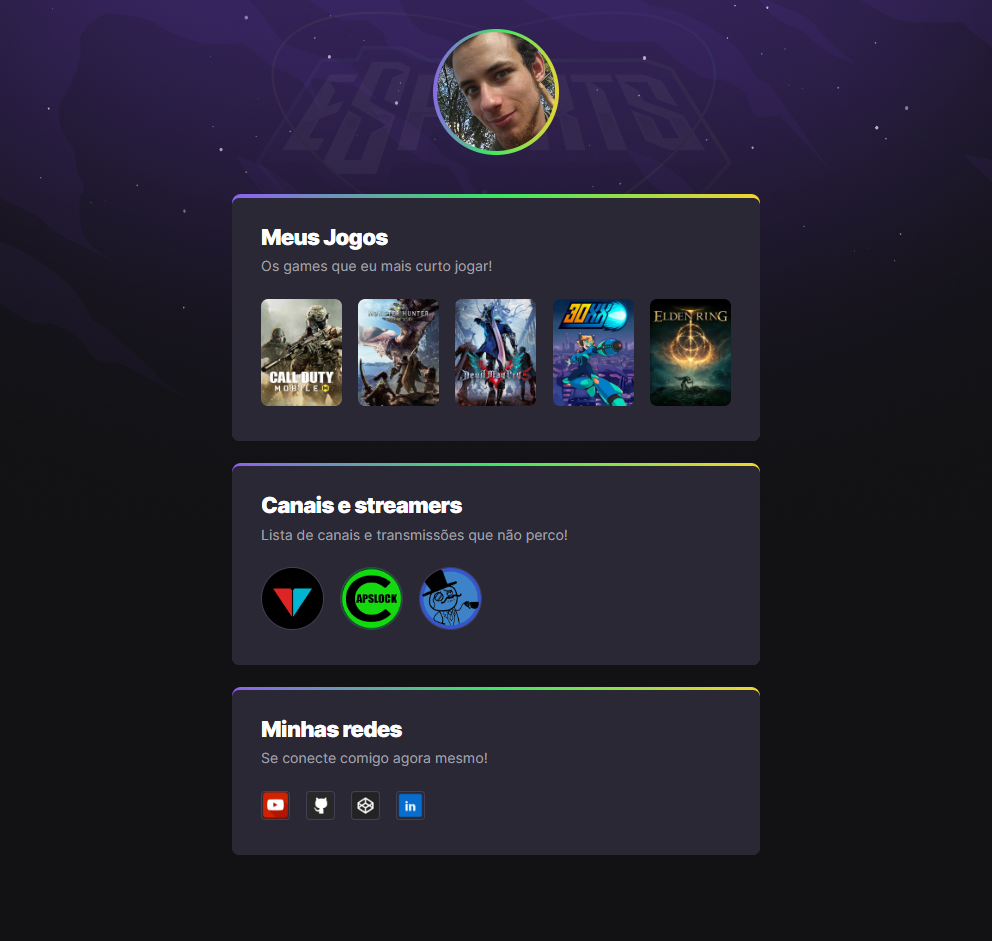
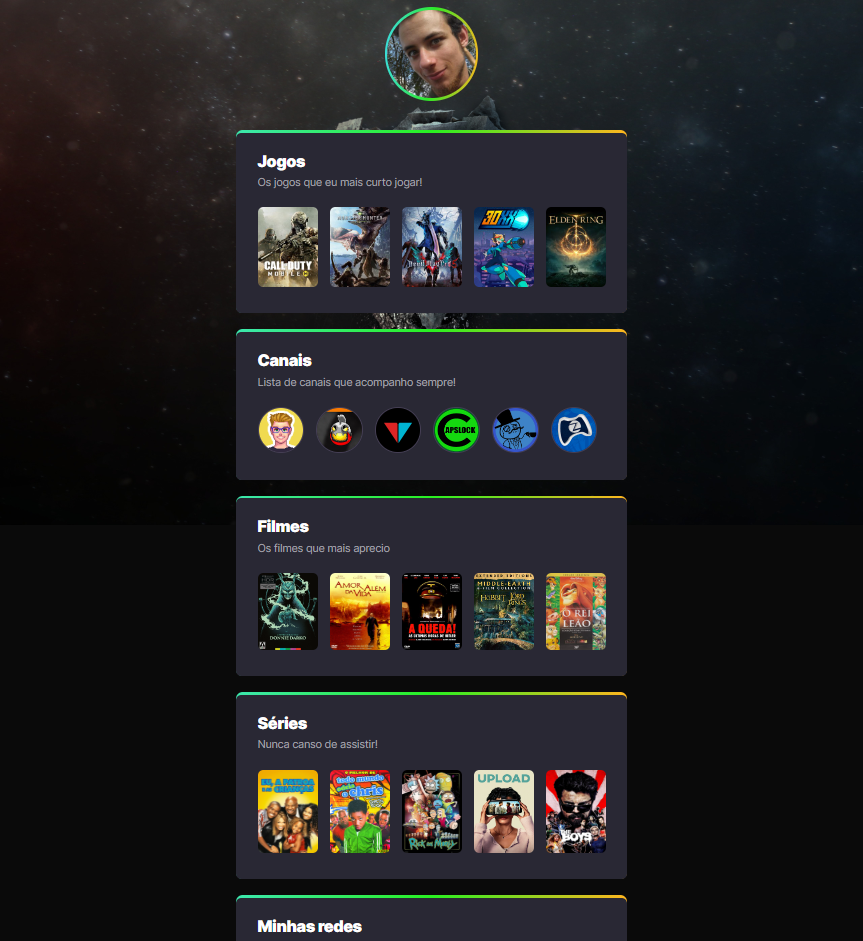
layout update add categories: Filmes e Séries

diff --git a/index.html b/index.html
@@ -26,11 +26,11 @@
         </header>
 
         <main>
-            <!-- Meus Jogos -->
+            <!-- Jogos -->
             <section>
                 <div>
-                    <h2>Meus Jogos</h2>
-                    <p>Os games que eu mais curto jogar!</p>
+                    <h2>Jogos</h2>
+                    <p>Os jogos que eu mais curto jogar!</p>
 
                     <ul class="games-list">
                         <li>
@@ -79,17 +79,33 @@
 
             </section>
 
-            <!-- Canais e streamers -->
+            <!-- Canais -->
             <section>
                 <div>
-                    <h2>Canais e streamers</h2>
-                    <p>Lista de canais e transmissões que não perco!</p>
+                    <h2>Canais</h2>
+                    <p>Lista de canais que acompanho sempre!</p>
 
                     <ul class="channel-list">
                         <li>
                             <a target="_blank"
+                               href="https://www.youtube.com/channel/UCU5JicSrEM5A63jkJ2QvGYw">
+                                <img src="https://yt3.ggpht.com/ytc/AMLnZu9fwc9E-G17B2vMnbYzZBp_NYs4AmCE802y8x08=s176-c-k-c0x00ffffff-no-rj-mo" alt="Imagem do Canal Filipe Deschamps">
+                            </a>
+
+                        </li>
+
+                        <li>
+                            <a target="_blank"
+                               href="https://www.youtube.com/user/PapaHardware">
+                                <img src="https://yt3.ggpht.com/ytc/AMLnZu_G1uq2q8l_Zvg7XibQ2IZ7AfxhWUT7li4qSeC9pQ=s176-c-k-c0x00ffffff-no-rj-mo" alt="Imagem do Canal Papa Hardware">
+                            </a>
+
+                        </li>
+
+                        <li>
+                            <a target="_blank"
                                href="https://www.youtube.com/user/VivaLaDirtLeague">
-                                <img src="https://yt3.ggpht.com/ytc/AMLnZu9JHmjqNg4pWPapIdxbYs_gSKyNe8ig5-3_yxuKog=s176-c-k-c0x00ffffff-no-rj-mo" alt="Imagem de Viva La Dirt League">
+                                <img src="https://yt3.ggpht.com/ytc/AMLnZu9JHmjqNg4pWPapIdxbYs_gSKyNe8ig5-3_yxuKog=s176-c-k-c0x00ffffff-no-rj-mo" alt="Imagem do Canal Viva La Dirt League">
                             </a>
 
                         </li>
@@ -97,7 +113,7 @@
                         <li>
                             <a target="_blank"
                                href="https://www.youtube.com/user/OficialCAPSLOCK">
-                                <img src="https://yt3.ggpht.com/ytc/AMLnZu_rNnQ8cif02501HPf8qwOOyXFQUCHTAUEh5XQaCw=s176-c-k-c0x00ffffff-no-rj-mo" alt="Imagem de Canal Capslock">
+                                <img src="https://yt3.ggpht.com/ytc/AMLnZu_rNnQ8cif02501HPf8qwOOyXFQUCHTAUEh5XQaCw=s176-c-k-c0x00ffffff-no-rj-mo" alt="Imagem do Canal Capslock">
                             </a>
 
                         </li>
@@ -105,7 +121,121 @@
                         <li>
                             <a target="_blank"
                                href="https://www.youtube.com/channel/UCRHXUZ0BxbkU2MYZgsuFgkQ">
-                                <img src="https://yt3.ggpht.com/ytc/AMLnZu8eaOmW_kaCowuC5z41SGt5oi7sZgyntvtVTCe8oA=s176-c-k-c0x00ffffff-no-rj-mo" alt="Imagem de The Spiffing Brit">
+                                <img src="https://yt3.ggpht.com/ytc/AMLnZu8eaOmW_kaCowuC5z41SGt5oi7sZgyntvtVTCe8oA=s176-c-k-c0x00ffffff-no-rj-mo" alt="Imagem do Canal The Spiffing Brit">
+                            </a>
+
+                        </li>
+
+                        <li>
+                            <a target="_blank"
+                               href="https://www.youtube.com/user/Zangado">
+                                <img src="https://yt3.ggpht.com/ib8SSymMeA54R7bJ8C4IULA_R_TE6dRT2HTy2pgJTgYj71x-pZ-NVDye2LVuaADvir3uP4kPbA=s176-c-k-c0x00ffffff-no-rj-mo" alt="Imagem do Canal Zangado">
+                            </a>
+
+                        </li>
+
+                    </ul>
+
+                </div>
+
+            </section>
+
+            <!-- Filmes -->
+            <section>
+                <div>
+                    <h2>Filmes</h2>
+                    <p>Os filmes que mais aprecio</p>
+
+                    <ul class="movie-list">
+                        <li>
+                            <a target="_blank"
+                               href="https://www.adorocinema.com/filmes/filme-34193/">
+                                <img src="http://cdn.shopify.com/s/files/1/0342/9312/1156/products/donniedarko4K.jpg?v=1645031113" alt="Imagem do filme Donnie Darko">
+                            </a>
+
+                        </li>
+
+                        <li>
+                            <a target="_blank"
+                               href="https://www.adorocinema.com/filmes/filme-17994/">
+                                <img src="https://i.pinimg.com/736x/a7/eb/49/a7eb4955ceb3f4d3889a0d5eac50b6da.jpg" alt="Imagem do filme Amor Além da Vida">
+                            </a>
+
+                        </li>
+
+                        <li>
+                            <a target="_blank"
+                               href="https://www.adorocinema.com/filmes/filme-58349/">
+                                <img src="https://m.media-amazon.com/images/I/61uQTxCOmUL._AC_SY550_.jpg" alt="Imagem do filme A Queda! - As Últimas Horas de Hitler">
+                            </a>
+
+                        </li>
+
+                        <li>
+                            <a target="_blank"
+                               href="https://www.adorocinema.com/noticias/filmes/noticia-161835/">
+                                <img src="https://musicimage.xboxlive.com/catalog/video.movie.8D6KGWXN7MXS/image?locale=en-us&mode=crop&purposes=BoxArt&q=90&h=300&w=200&format=jpg" alt="Imagem do filme Coletânea Completa de Terra-Média - O Hobbit e Senhor dos Anéis Versões Extendidas (6 Filmes)">
+                            </a>
+
+                        </li>
+
+                        <li>
+                            <a target="_blank"
+                               href="https://www.adorocinema.com/filmes/filme-10862/">
+                                <img src="https://m.media-amazon.com/images/I/812VskHyTVL._SY445_.jpg" alt="Imagem do filme Coletânea - O Rei Leão (3 filmes)">
+                            </a>
+
+                        </li>
+
+                    </ul>
+
+                </div>
+
+            </section>
+
+            <!-- Séries -->
+            <section>
+                <div>
+                    <h2>Séries</h2>
+                    <p>Nunca canso de assistir!</p>
+
+                    <ul class="series-list">
+                        <li>
+                            <a target="_blank"
+                               href="https://www.adorocinema.com/series/serie-80/">
+                                <img src="https://kult.pt/api/image/huMehRjXBkFkO9BWPly1635y0J0.jpg" alt="Imagem da serie Eu a Patroa e as Crianças">
+                            </a>
+
+                        </li>
+
+                        <li>
+                            <a target="_blank"
+                               href="https://www.adorocinema.com/series/serie-458/">
+                                <img src="https://s2.glbimg.com/eCCkKjzP9GUSzmISwcqdye9U3yg=/1200x/smart/filters:cover():strip_icc()/i.s3.glbimg.com/v1/AUTH_63b422c2caee4269b8b34177e8876b93/internal_photos/bs/2019/K/G/sWAU0wTBqGf4x9G8M4ew/foto02cul-201-dvd2-d30.jpg" alt="Imagem da série Todo Mundo Odeia o Chris">
+                            </a>
+
+                        </li>
+
+                        <li>
+                            <a target="_blank"
+                               href="https://www.adorocinema.com/series/serie-11561/">
+                                <img src="https://m.media-amazon.com/images/I/71PoWJZWJRL._AC_SL1000_.jpg" alt="Imagem da série Rick e Morty">
+                            </a>
+
+                        </li>
+
+                        <li>
+                            <a target="_blank"
+                               href="https://www.adorocinema.com/series/serie-22769/">
+                                <img src="https://seuladogeek.com.br/wp-content/uploads/2022/03/Upload-serie.jpg" alt="Imagem da série Upload">
+                            </a>
+
+                        </li>
+
+                        <li>
+                            <a target="_blank"
+                               href="https://www.adorocinema.com/series/serie-22668/">
+                                <img src="https://image.tmdb.org/t/p/w600_and_h900_bestv2/mY7SeH4HFFxW1hiI6cWuwCRKptN.jpg" alt="Imagem da série The Boys">
                             </a>
 
                         </li>
@@ -120,13 +250,13 @@
             <section>
                 <div>
                     <h2>Minhas redes</h2>
-                    <p>Se conecte comigo agora mesmo!</p>
+                    <p>Acompanhe meus outros conteúdos agora mesmo!</p>
 
                     <ul class="web-list">
                         <li>
                             <a target="_blank"
                                href="https://www.youtube.com/channel/UCkIR5Y_8obq9HxYWMtuDDaw">
[2 lines of base64/hex data omitted]
                             </a>
 
                         </li>

diff --git a/css/style.css b/css/style.css
@@ -15,15 +15,15 @@ header {
 }
 
 
-header div {
-    width: 140px;
-    margin: auto;
-    background-image: linear-gradient(95deg, #8d60f1 0%, #3ce864 50%, #f5d330 100%);
-    border-radius: 50%;
-    display: flex;
-    padding: 4px;
-    transition: transform .3s;
-}
+    header div {
+        width: 140px;
+        margin: auto;
+        background-image: linear-gradient(95deg, #3cdde8 0%, #2ee827 50%, #ffb61f 100%);
+        border-radius: 50%;
+        display: flex;
+        padding: 4px;
+        transition: transform .3s;
+    }
 
 header div:hover {
     transform: scale(1.15)
@@ -35,11 +35,11 @@ header div img {
 }
 
 body {
-    background-image: url(../img/bg.jpg);
+    background-image: url(http://wallup.net/wp-content/uploads/2016/01/75116-triangle-digital_art-rock.jpg);
     background-position: top center;
     background-size: 100% auto;
     background-repeat: no-repeat;
-    background-color: #121214;
+    background-color: #060807;
 }
 
 body * {
@@ -58,7 +58,7 @@ main {
 
 section {
     color: white;
-    background-image: linear-gradient(90deg, #8d60f1 0%, #3ce864 50%, #f5d330 100%);
+    background-image: linear-gradient(90deg, #3ce8ae 0%, #29f121 50%, #ffb61f 100%);
     padding-top: 4px;
     border-radius: 10px;
 }
@@ -105,6 +105,18 @@ section ul li:hover {
     border: 1px solid #443E54;
 }
 
+.movie-list img {
+    width: 90px;
+    height: 115px;
+    border-radius: 8px;
+}
+
+.series-list img {
+    width: 90px;
+    height: 125px;
+    border-radius: 8px;
+}
+
 .web-list img {
     border-radius: 4px;
     width: 32px;
@@ -131,6 +143,14 @@ main section:nth-child(2) {
 
 main section:nth-child(3) {
     animation-delay: .6s;
+}
+
+main section:nth-child(4) {
+    animation-delay: .9s;
+}
+
+main section:nth-child(5) {
+    animation-delay: 1.2s;
 }
 
 @keyframes fromTop {

diff --git a/README.md b/README.md
@@ -1,5 +1,4 @@
-# GameHub
-# NLW eSports - Explorer
+# NLW eSports - Trilha Explorer
 
 
 ![preview](./.github/preview.png)
